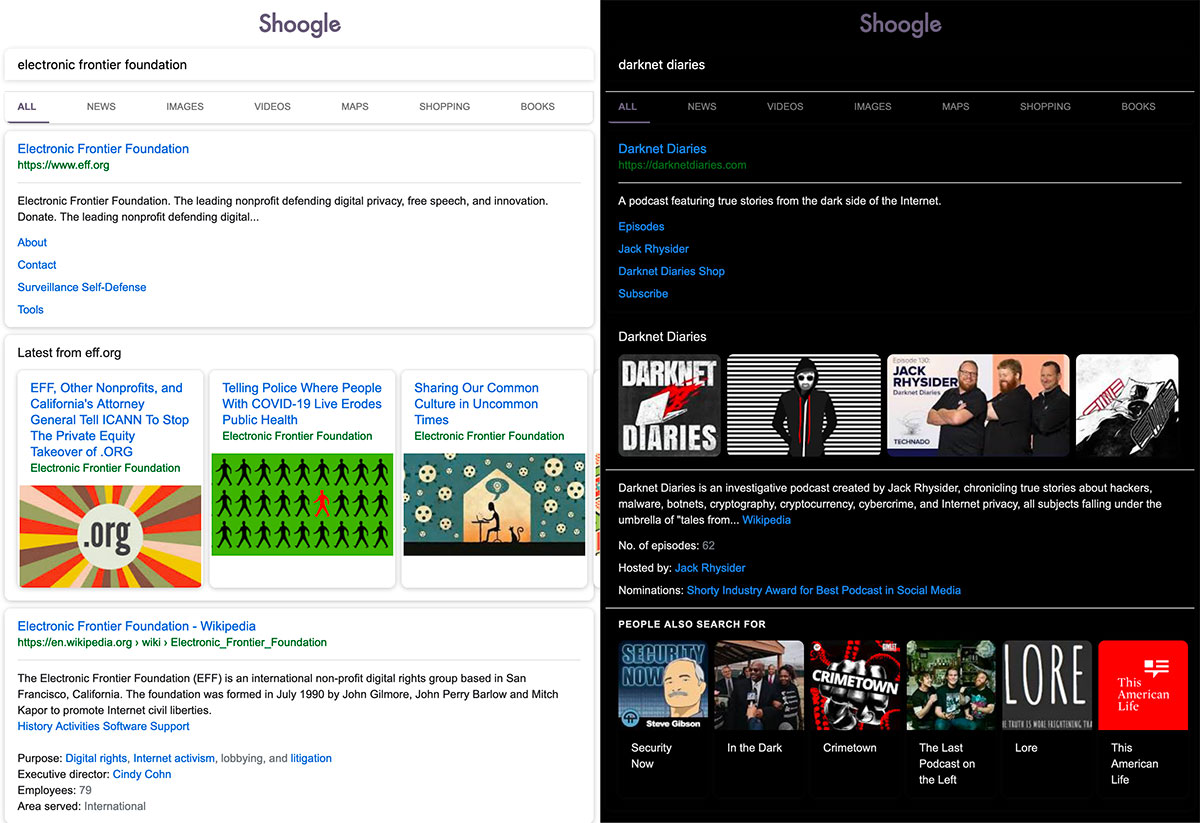
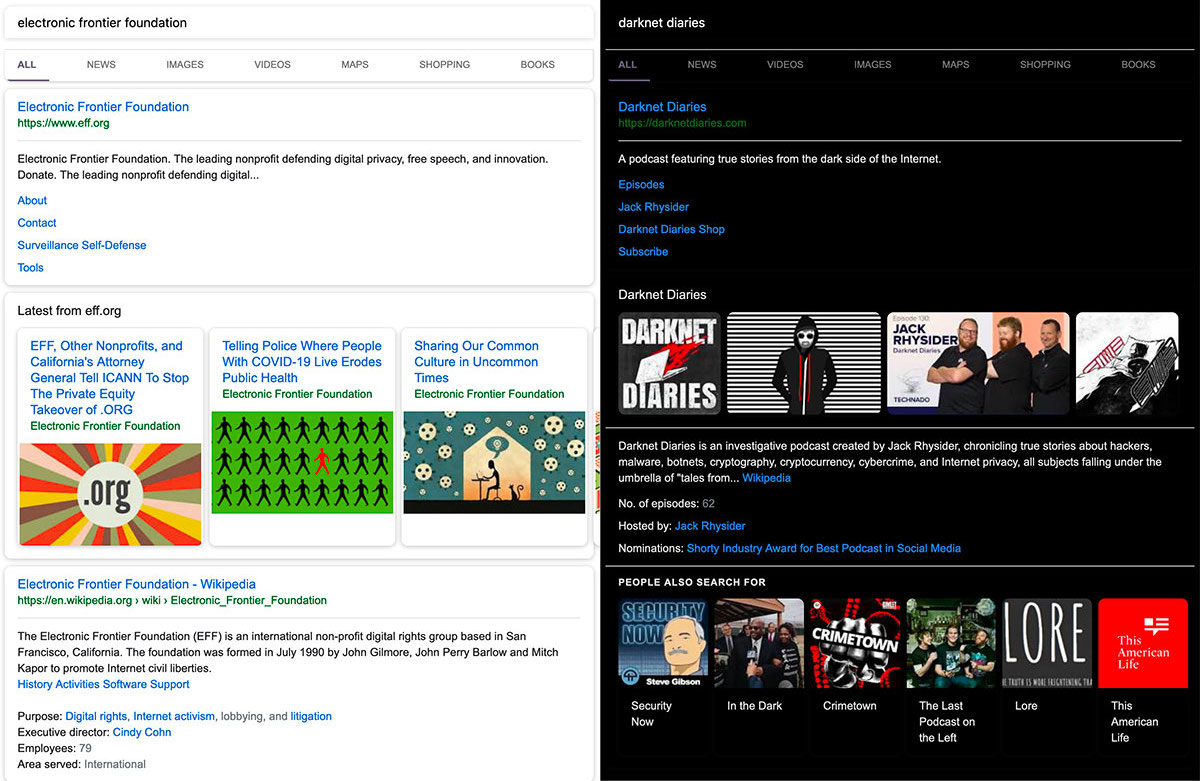
Minor styling refactor, updated app name

diff --git a/app/templates/index.html b/app/templates/index.html
@@ -17,10 +17,10 @@
         <meta name="msapplication-TileColor" content="#ffffff">
         <meta name="msapplication-TileImage" content="/static/img/favicon/ms-icon-144x144.png">
         <script type="text/javascript" src="/static/js/controller.js"></script>
-        <link rel="search" href="/opensearch.xml" type="application/opensearchdescription+xml" title="Shoogle Search">
+        <link rel="search" href="/opensearch.xml" type="application/opensearchdescription+xml" title="Whoogle Search">
         <meta name="viewport" content="width=device-width, initial-scale=1.0">
         <link rel="stylesheet" href="/static/css/main.css">
-	<title>Shoogle Search</title>
+	<title>Whoogle Search</title>
     </head>
     <body id="main" style="display: none; background-color: {{ bg }}">
         <div class="search-container">

diff --git a/app/static/js/controller.js b/app/static/js/controller.js
@@ -21,7 +21,7 @@ const fillConfigValues = (near, nojs, dark) => {
     xhrGET.open("GET", "/config");
     xhrGET.onload = function() {
         if (xhrGET.readyState === 4 && xhrGET.status !== 200) {
-            alert("Error loading Shoogle config");
+            alert("Error loading Whoogle config");
             return;
         }
 
@@ -48,7 +48,7 @@ const fillConfigValues = (near, nojs, dark) => {
 }
 
 const setupConfigLayout = () => {
-    // Setup shoogle config
+    // Setup whoogle config
     const collapsible = document.getElementById("config-collapsible");
     collapsible.addEventListener("click", function() {
         this.classList.toggle("active");

diff --git a/app/templates/display.html b/app/templates/display.html
@@ -2,9 +2,9 @@
     <head>
         <link rel="shortcut icon" href="/static/img/favicon.ico" type="image/x-icon">
         <link rel="icon" href="/static/img/favicon.ico" type="image/x-icon">
-        <link rel="search" href="/opensearch.xml" type="application/opensearchdescription+xml" title="Shoogle Search">
+        <link rel="search" href="/opensearch.xml" type="application/opensearchdescription+xml" title="Whoogle Search">
         <meta name="viewport" content="width=device-width, initial-scale=1.0">
-        <title>{{ query }} - Shoogle Search</title>
+        <title>{{ query }} - Whoogle Search</title>
     </head>
     <body>
         {{ response|safe }}

diff --git a/app/static/css/main.css b/app/static/css/main.css
@@ -1,9 +1,3 @@
-@import url(https://fonts.googleapis.com/css?family=Open+Sans);
-
-body {
-    font-family: 'Open Sans', sans-serif;
-}
-
 .logo {
     width: 80%;
     display: block;

diff --git a/app/routes.py b/app/routes.py
@@ -32,7 +32,7 @@ def opensearch():
     if url_root.endswith('/'):
         url_root = url_root[:-1]
 
-    template = render_template('opensearch.xml', shoogle_url=url_root)
+    template = render_template('opensearch.xml', whoogle_url=url_root)
     response = make_response(template)
     response.headers['Content-Type'] = 'application/xml'
     return response
@@ -61,8 +61,8 @@ def search():
     full_query = gen_query(q, request.args, content_filter.near)
     get_body = g.user_request.send(query=full_query)
 
-    shoogle_results = content_filter.reskin(get_body)
-    formatted_results = content_filter.clean(BeautifulSoup(shoogle_results, 'html.parser'))
+    results = content_filter.reskin(get_body)
+    formatted_results = content_filter.clean(BeautifulSoup(results, 'html.parser'))
 
     return render_template('display.html', query=urlparse.unquote(q), response=formatted_results)
 

diff --git a/app/filter.py b/app/filter.py
@@ -30,7 +30,7 @@ class Filter:
 
     def reskin(self, page):
         # Aesthetic only re-skinning
-        page = page.replace('>G<', '>Sh<')
+        page = page.replace('>G<', '>Wh<')
         pattern = re.compile('4285f4|ea4335|fbcc05|34a853|fbbc05', re.IGNORECASE)
         page = pattern.sub('685e79', page)
         if self.dark:

diff --git a/test/test_routes.py b/test/test_routes.py
@@ -33,4 +33,4 @@ def test_config(client):
 def test_opensearch(client):
     rv = client.get('/opensearch.xml')
     assert rv._status_code == 200
-    assert 'Shoogle' in str(rv.data)
+    assert 'Whoogle' in str(rv.data)

diff --git a/README.md b/README.md
@@ -1,8 +1,9 @@
-![Shoogle Banner](app/static/img/docs/shoogle-logo.png)
-
+<p align="left">
+    <img src="./app/static/img/logo.png" width="400" alt="whoogle-banner"/>
+</p>
 ___
 
-[![Latest Release](https://img.shields.io/github/v/release/benbusby/shoogle)](https://github.com/benbusby/shoogle/releases)
+[![Latest Release](https://img.shields.io/github/v/release/benbusby/whoogle-search)](https://github.com/benbusby/shoogle/releases)
 [![License: MIT](https://img.shields.io/badge/License-MIT-yellow.svg)](https://opensource.org/licenses/MIT)
 [![Build Status](https://travis-ci.com/benbusby/shoogle.svg?token=JgVbn8LSCz5Mmr9h5qq7&branch=master)](https://travis-ci.com/benbusby/shoogle)
 [![codebeat badge](https://codebeat.co/badges/e96cada2-fb6f-4528-8285-7d72abd74e8d)](https://codebeat.co/projects/github-com-benbusby-shoogle-master)
@@ -25,6 +26,7 @@ Contents
 - No tracking/linking of your personal IP address
 - No AMP links
 - No URL tracking tags (i.e. utm=%s)
+- POST request search queries (when possible)
 - View images at full res with one click
 - Dark mode
 - Randomly generated User Agent
@@ -53,14 +55,14 @@ If deploying manually:
 There are a few different ways to begin using the app, depending on your preferences:
 
 ### A) Heroku Quick Deploy (Free)
-[![Deploy](https://www.herokucdn.com/deploy/button.svg)](https://heroku.com/deploy?template=https://github.com/benbusby/shoogle)
+[![Deploy](https://www.herokucdn.com/deploy/button.svg)](https://heroku.com/deploy?template=https://github.com/benbusby/whoogle-search)
 
 ### B) Manual Setup (non-Docker)
 Clone the repo and run the following commands to start the app in a local-only environment:
 
 ```bash
-git clone https://github.com/benbusby/shoogle.git
-cd shoogle
+git clone https://github.com/benbusby/whoogle-search.git
+cd whoogle-search
 python3 -m venv venv
 source venv/bin/activate
 pip install -r requirements.txt
@@ -77,15 +79,15 @@ pip install -r requirements.txt
 ```bash
 heroku login
 heroku container:login
-git clone https://github.com/benbusby/shoogle.git
-cd shoogle
+git clone https://github.com/benbusby/whoogle-search.git
+cd whoogle-search
 heroku create
 heroku container:push web
 heroku container:release web
 heroku open
 ```
 
-This series of commands can take a while, but once you run it once, you shouldn't have to run it again. The final command, `heroku open` will launch a tab in your web browser, where you can test out Shoogle and even [set it as your primary search engine](https://github.com/benbusby/shoogle#set-shoogle-as-your-primary-search-engine).
+This series of commands can take a while, but once you run it once, you shouldn't have to run it again. The final command, `heroku open` will launch a tab in your web browser, where you can test out Whoogle and even [set it as your primary search engine](https://github.com/benbusby/whoogle#set-whoogle-as-your-primary-search-engine).
 
 #### Using your own server, or alternative container deployment
 There are other methods for deploying docker containers that are well outlined in [this article](https://rollout.io/blog/the-shortlist-of-docker-hosting/), but there are too many to describe set up for each here. Generally it should be about the same amount of effort as the Heroku deployment.
@@ -102,18 +104,18 @@ Same as most search engines, with the exception of filtering by time range.
 To filter by a range of time, append ":past <time>" to the end of your search, where <time> can be `hour`, `day`, `month`, or `year`. Example: `coronavirus updates :past hour`
 
 ## Extra Steps
-### Set Shoogle as your primary search engine
+### Set Whoogle as your primary search engine
 Update browser settings:
   - Firefox (Desktop)
-    - Navigate to your app's url, and click the 3 dot menu in the address bar. At the bottom, there should be an option to "Add Search Engine". Once you've clicked this, open your Firefox Preferences menu, click "Search" in the left menu, and use the available dropdown to select "Shoogle" from the list.
+    - Navigate to your app's url, and click the 3 dot menu in the address bar. At the bottom, there should be an option to "Add Search Engine". Once you've clicked this, open your Firefox Preferences menu, click "Search" in the left menu, and use the available dropdown to select "Whoogle" from the list.
   - Firefox (iOS)
     - In the mobile app Settings page, tap "Search" within the "General" section. There should be an option titled "Add Search Engine" to select. It should prompt you to enter a title and search query url - use the following elements to fill out the form:
-      - Title: "Shoogle"
-      - URL: "https://\<your shoogle url\>/search?q=%s"
+      - Title: "Whoogle"
+      - URL: "https://\<your whoogle url\>/search?q=%s"
   - Others (TODO)
 
 ### Customizing and Configuration
-Shoogle currently allows a few minor configuration settings, accessible from the home page:
+Whoogle currently allows a few minor configuration settings, accessible from the home page:
   - "Near"
     - Set to a city name to narrow your results to a general geographic region. This can be useful if you rely on being able to search for things like "pizza places" and see results in your city, rather than results from wherever the server is located.
   - Dark Mode
@@ -122,28 +124,28 @@ Shoogle currently allows a few minor configuration settings, accessible from the
     - Adds a separate link for each search result that will open the webpage without any javascript content served. Can be useful if you're seeking a no-javascript experience on mobile, but otherwise could just be accomplished with a browser plugin.
 
 ### Prevent Downtime (Heroku only)
-Part of the deal with Heroku's free tier is that you're allocated 550 hours/month (meaning it can't stay active 24/7), and the app is temporarily shut down after 30 minutes of inactivity. Once it becomes inactive, any Shoogle searches will still work, but it'll take an extra 10-15 seconds for the app to come back online before displaying the result, which can be frustrating if you're in a hurry.
+Part of the deal with Heroku's free tier is that you're allocated 550 hours/month (meaning it can't stay active 24/7), and the app is temporarily shut down after 30 minutes of inactivity. Once it becomes inactive, any Whoogle searches will still work, but it'll take an extra 10-15 seconds for the app to come back online before displaying the result, which can be frustrating if you're in a hurry.
 
 A good solution for this is to set up a simple cronjob on any device at your home that is consistently powered on and connected to the internet (in my case, a PiHole worked perfectly). All the device needs to do is fetch app content on a consistent basis to keep the app alive in whatever ~17 hour window you want it on (17 hrs * 31 days = 527, meaning you'd still have 23 leftover hours each month if you searched outside of your target window).
 
-For instance: `*/20 7-23 * * * curl https://<your heroku app name>.herokuapp.com > /home/<username>/shoogle-refresh` will fetch the home page of the app every 20 minutes between 7am and midnight, allowing for downtime from midnight to 7am. And again, this wouldn't be a hard limit - you'd still have plenty of remaining hours of uptime each month in case you were searching after this window has closed.
+For instance: `*/20 7-23 * * * curl https://<your heroku app name>.herokuapp.com > /home/<username>/whoogle-refresh` will fetch the home page of the app every 20 minutes between 7am and midnight, allowing for downtime from midnight to 7am. And again, this wouldn't be a hard limit - you'd still have plenty of remaining hours of uptime each month in case you were searching after this window has closed.
 
 ## FAQ
-**What's the difference between this and Searx?**
+**What's the difference between this and [Searx](https://github.com/asciimoo/searx)?**
 
-*There are quite a few similarities and differences between Shoogle and Searx. Both are built to respect user privacy as much as possible, and both are capable of being individually deployed. Additionally, a lot of privacy features are shared between the two services, but since Shoogle is still in its infancy, a lot of features are missing, but will gradually be added in over time.*
+Whoogle is intended to only ever be deployed to private instances by individuals of any background, with as little effort as possible. Prior knowledge of/experience with the command line or deploying applications is not necessary to deploy Whoogle, which isn't the case with Searx. As a result, Whoole is missing some features of Searx in order to be as easy to deploy as possible.
 
-*The core feature of Shoogle that sets it apart and will be supported through all added features is the extremely simplified deployment of the app for individuals at any experience level, not just the technically inclined.*
+Whoogle also only uses Google search results, not Bing/Quant/etc, and uses the existing Google search UI to make the transition away from Google search as unnoticeable as possible.
 
-*It is strictly intended to be self-hosted only, and as such, needs to be (and is) excruciatingly easy to host yourself.*
+I'm a huge fan of Searx though and encourage anyone to use that instead if they want access to other search engines/a different UI/more configuration.
 
-**Why does the image results page look so bad on mobile?**
+**Why does the image results page look different?**
 
-*A lot of the app currently piggybacks on Google's existing support for fetching results pages with Javascript disabled. To their credit, they've done an excellent job with styling pages, but it seems that the image results page - particularly on mobile - is a little rough. Moving forward, with enough interest, I'd like to transition to fetching the results and parsing them into a unique Shoogle-fied interface that I can style myself.*
+A lot of the app currently piggybacks on Google's existing support for fetching results pages with Javascript disabled. To their credit, they've done an excellent job with styling pages, but it seems that the image results page - particularly on mobile - is a little rough. Moving forward, with enough interest, I'd like to transition to fetching the results and parsing them into a unique Whoogle-fied interface that I can style myself.
 
 ## Screenshots
 #### Desktop
-![Shoogle Desktop](app/static/img/docs/screenshot_desktop.jpg)
+![Whoogle Desktop](app/static/img/docs/screenshot_desktop.jpg)
 
 #### Mobile
-![Shoogle Mobile](app/static/img/docs/screenshot_mobile.jpg)
+![Whoogle Mobile](app/static/img/docs/screenshot_mobile.jpg)

diff --git a/.github/ISSUE_TEMPLATE/bug_report.md b/.github/ISSUE_TEMPLATE/bug_report.md
@@ -1,6 +1,6 @@
 ---
 name: Bug report
-about: Create a bug report to help improve Shoogle
+about: Create a bug report to help improve Whoogle
 title: "[BUG] "
 labels: bug
 assignees: benbusby
